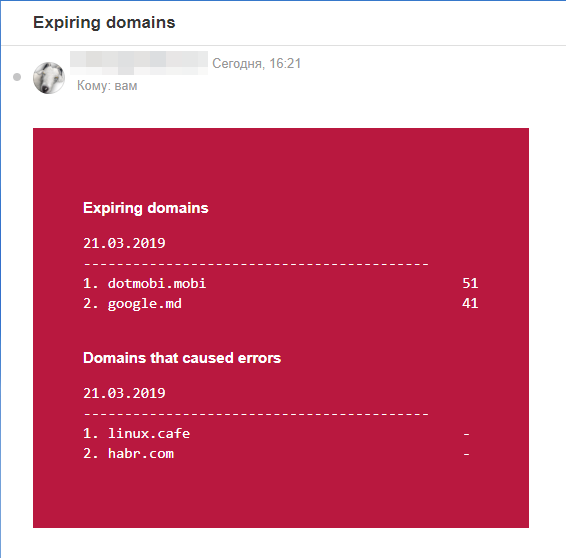
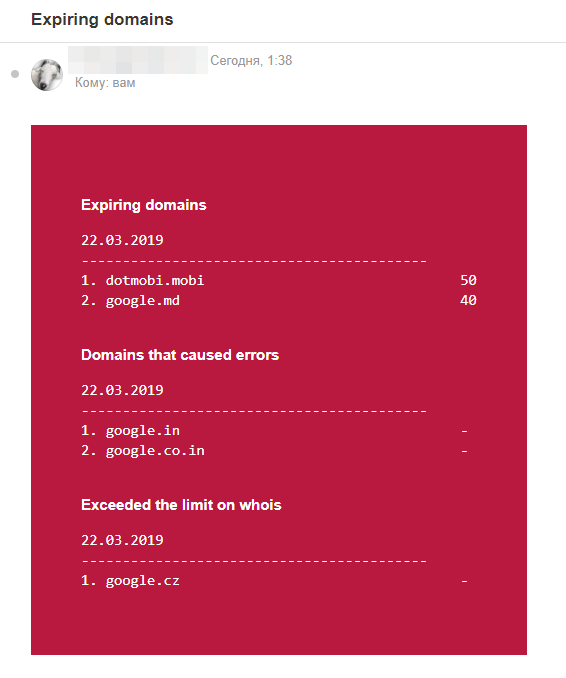
Extended analysis of external whois-data and fixed some bugs

diff --git a/ddec.py b/ddec.py
@@ -1,4 +1,5 @@
 #!/usr/bin/python3
+# !/usr/bin/env python3
 # -*- coding: utf-8 -*-
 
 # Program: DNS Domain Expiration Checker from ak545
@@ -9,8 +10,8 @@
 # Author of this fork: Andrey Klimov < ak545 at mail dot ru >
 # https://github.com/ak545
 #
-# Current Version: 0.1
-# Date: 21-03-2019
+# Current Version: 0.2
+# Date: 22-03-2019
 #
 # License:
 #  This program is free software; you can redistribute it and/or modify
@@ -60,7 +61,7 @@ except ImportError:
 init(autoreset=True)
 
 # Global constants
-_VERSION = "0.1"
+_VERSION = "0.2"
 FR = Fore.RESET
 FLW = Fore.LIGHTWHITE_EX
 FLG = Fore.LIGHTGREEN_EX
@@ -76,9 +77,9 @@ SEP = os.sep
 # SMTP options
 SMTP_SERVER = "localhost"
 # SMTP_SERVER = "smtp.gmail.com"
+SMTP_PORT = 25  # Default
 # SMTP_PORT = 587  # For starttls
 # SMTP_PORT = 465  # For SSL
-SMTP_PORT = 25  # Default
 SMTP_SENDER = "root"
 SMTP_PASSWORD = "P@ssw0rd"
 
@@ -88,7 +89,6 @@ REQUEST_HEADERS = {
 }
 
 # Telegram bot options
-
 # Proxy for telegram
 TELEGRAM_PROXIES = {}
 
@@ -103,21 +103,36 @@ CHAT_ID = '<INSERT YOUR CHANNEL ID>'
 TELEGRAM_URL = "https://api.telegram.org/bot" + MY_TOKEN + "/"
 
 # Options for an external utility whois
+# Keywords for whois-data
 EXPIRE_STRINGS = [
     "Registry Expiry Date:",
     "Expiration:",
-    "Domain Expiration Date",
+    "Domain Expiration Date:",
     "Registrar Registration Expiration Date:",
     "expire:",
     "paid-till:",
     "option expiration date:",
     "[Expires on]",
-    "Expiry date"
+    "Expiry date:",
+    "Expiry Date:",
+    "Expiration date:",
+    "Expiration Date:",
+    "Renewal date:",
+    "paid-till:",
+    "Domain expires:",
+    "renewal date:",
+    "expires:",
+    "Expires:",
+    "Expires On:"
 ]
 REGISTRAR_STRINGS = [
     "[Registrant]",
     "Registrar:",
-    "registrar:"
+    "registrar:",
+    "Registrant:",
+    # "Status:",
+    "Sponsoring Registrar:",
+    "REGISTRAR:"
 ]
 WHOIS_SERVER_STRINGS = [
     "Registrar WHOIS Server:",
@@ -127,14 +142,18 @@ NOT_FOUND_STRINGS = [
     "NOT FOUND",
     "No entries found for the selected source(s)."
 ]
+
+# Command for external whois
 WHOIS_COMMAND = "whois"
+
+# Timeout for external whois
 WHOIS_COMMAND_TIMEOUT = 10
 
 # The list of expired domains
 EXPIRES_DOMAIN = {}
 
 # The list of error domains
-ERRORS_DOMAIN = []
+ERRORS_DOMAIN = [] # Common errors
 ERRORS2_DOMAIN = []  # limit connection
 
 # Command line parameters
@@ -238,6 +257,8 @@ def make_whois_query(domain):
     :return: date, string, string, boolean (expiration_date, registrar, whois_server, error)
     """
     global WHOIS_COMMAND_TIMEOUT
+    global ERRORS_DOMAIN
+
     try:
         p = subprocess.Popen([WHOIS_COMMAND, domain],
                              stdout=subprocess.PIPE, stderr=subprocess.STDOUT)
@@ -248,9 +269,9 @@ def make_whois_query(domain):
     try:
         whois_data = p.communicate(timeout=WHOIS_COMMAND_TIMEOUT)[0]
     except Exception as e:
-        print(f"{FLR}Unable to read from the Popen pipe.\nDomain: {domain}.\nException: {e}")
-        # sys.exit(1)
-        return None, None, None, True
+        if domain not in ERRORS_DOMAIN:
+            ERRORS_DOMAIN.append(str(domain).lower())
+        return None, None, None, 1
 
     # TODO: Work around whois issue #55 which returns a non-zero
     # exit code for valid domains.
@@ -259,6 +280,7 @@ def make_whois_query(domain):
     #    sys.exit(-1)
 
     whois_data = str(whois_data, 'utf-8', 'ignore')
+
     return parse_whois_data(domain, whois_data)
 
 
@@ -269,6 +291,8 @@ def parse_whois_data(domain, whois_data):
     :param whois_data: string
     :return: date, string, string, boolean (expiration_date, registrar, whois_server, error)
     """
+    global ERRORS2_DOMAIN
+
     expiration_date = None
     registrar = None
     whois_server = None
@@ -279,8 +303,10 @@ def parse_whois_data(domain, whois_data):
             continue
 
         if "Your connection limit exceeded. Please slow down and try again later." in line:
+            # Interval is small
             error = 2
-            # print(f"{FLR}Domain: {domain}\nError: Your connection limit exceeded. Please slow down and try again later.")
+            if domain not in ERRORS2_DOMAIN:
+                ERRORS2_DOMAIN.append(str(domain).lower())
             return None, None, None, error
 
         if any(not_found_string in line for not_found_string in
@@ -323,6 +349,7 @@ def calculate_expiration_days(expiration_date):
     except:
         print(f"{FLR}Unable to calculate the expiration days")
         sys.exit(-1)
+
     return domain_expire.days
 
 
@@ -343,7 +370,7 @@ def send_expires_dict_telegram():
 
     message = ""
     if len(EXPIRES_DOMAIN) > 0:
-        # Add expires domains
+        # add expiring domains
         message += "\n<b>Expiring domains</b><pre>" + today + "\n"
         message += hl + "\n"
         for domain, day_left in EXPIRES_DOMAIN.items():
@@ -353,7 +380,7 @@ def send_expires_dict_telegram():
         message += "</pre>"
 
     if len(ERRORS_DOMAIN) > 0:
-        # Add error domains
+        # add error domains
         message += "\n<b>Domains that caused errors</b><pre>" + today + "\n"
         message += hl + "\n"
         for domain in ERRORS_DOMAIN:
@@ -363,7 +390,7 @@ def send_expires_dict_telegram():
         message += "</pre>"
 
     if len(ERRORS2_DOMAIN) > 0:
-        # Add error2 domains
+        # add error2 domains
         message += "\n<b>Exceeded the limit on whois</b><pre>" + today + "\n"
         message += hl + "\n"
         for domain in ERRORS2_DOMAIN:
@@ -446,7 +473,7 @@ def send_expires_dict_email():
     # For part plain
     domain_list_txt = ""
     if len(EXPIRES_DOMAIN) > 0:
-        # Add expires domains
+        # add expiring domains
         domain_list_txt += "\nExpiring domains\n"
         domain_list_txt += today + "\n"
         domain_list_txt += hl + "\n"
@@ -458,7 +485,7 @@ def send_expires_dict_email():
             domain_list_txt += str_domain_item
 
     if len(ERRORS_DOMAIN) > 0:
-        # Add error domains
+        # add error domains
         domain_list_txt += "\nDomains that caused errors\n"
         domain_list_txt += today + "\n"
         domain_list_txt += hl + "\n"
@@ -468,7 +495,7 @@ def send_expires_dict_email():
             domain_list_txt += str_domain_item
 
     if len(ERRORS2_DOMAIN) > 0:
-        # Add error2 domains
+        # add error2 domains
         domain_list_txt += "\nExceeded the limit on whois\n"
         domain_list_txt += today + "\n"
         domain_list_txt += hl + "\n"
@@ -482,7 +509,7 @@ def send_expires_dict_email():
     # For part html
     domain_list = ""
     if len(EXPIRES_DOMAIN) > 0:
-        # Add expires domains
+        # add expiring domains
         domain_list += "<br><b>Expiring domains</b><br><pre>"
         domain_list += today + "\n"
         domain_list += hl + "\n"
@@ -495,7 +522,7 @@ def send_expires_dict_email():
         domain_list += "</pre>"
 
     if len(ERRORS_DOMAIN) > 0:
-        # Add error domains
+        # add error domains
         domain_list += "<br><b>Domains that caused errors</b><br><pre>"
         domain_list += today + "\n"
         domain_list += hl + "\n"
@@ -506,7 +533,7 @@ def send_expires_dict_email():
         domain_list += "</pre>"
 
     if len(ERRORS2_DOMAIN) > 0:
-        # Add error2 domains
+        # add error2 domains
         domain_list += "<br><b>Exceeded the limit on whois</b><br><pre>"
         domain_list += today + "\n"
         domain_list += hl + "\n"
@@ -526,7 +553,6 @@ def send_expires_dict_email():
 
     message = msg.as_string()
 
-    # Try to log in to server and send email
     send_email(message)
 
 
@@ -844,7 +870,8 @@ def print_domain(domain, whois_server, registrar, expiration_date, days_remainin
     dlerr2 = "{:<17}".format("Is it Free?")
 
     # If error == 3
-    # Your connection limit exceeded. Please slow down and try again later.
+    # Your connection limit exceeded. 
+    # Please slow down and try again later.
     dlerr3 = "{:<17}".format("Interval is small")
 
     if days_remaining == -1 or error:
@@ -922,7 +949,7 @@ def check_domain(domain_name, expiration_days, interval_time=None, current_domai
     :param expiration_days: integer
     :param interval_time: integer
     :param current_domain: integer
-    :return: 0 - Error, 1 - Successfully
+    :return: False - Error, True - Successfully
     """
     global NAMESPACE
     global EXPIRES_DOMAIN
@@ -957,10 +984,12 @@ def check_domain(domain_name, expiration_days, interval_time=None, current_domai
                 expiration_date_e, registrar_e, whois_server_e, error = make_whois_query(domain_name)
                 if error:
                     if error == 1:
-                        ERRORS_DOMAIN.append(str(domain_name).lower())
+                        if domain_name not in ERRORS_DOMAIN:
+                            ERRORS_DOMAIN.append(str(domain_name).lower())
                     elif error == 2:
                         # Exceeded the limit on whois
-                        ERRORS2_DOMAIN.append(str(domain_name).lower())
+                        if domain_name not in ERRORS2_DOMAIN:
+                            ERRORS2_DOMAIN.append(str(domain_name).lower())
 
                 if not expiration_date:
                     expiration_date = expiration_date_e
@@ -969,7 +998,8 @@ def check_domain(domain_name, expiration_days, interval_time=None, current_domai
                 if not whois_server:
                     whois_server = whois_server_e
             else:
-                ERRORS_DOMAIN.append(str(domain_name).lower())
+                if domain_name not in ERRORS_DOMAIN:
+                    ERRORS_DOMAIN.append(str(domain_name).lower())
                 if NAMESPACE.print_to_console:
                     print_domain(domain_name, None, None, None, -1, -1, current_domain, error)  # Error
                 if current_domain < G_DOMAINS_TOTAL:
@@ -977,9 +1007,9 @@ def check_domain(domain_name, expiration_days, interval_time=None, current_domai
                         if NAMESPACE.print_to_console:
                             print(f"\tWait {interval_time} sec...\r", end="")
                         time.sleep(interval_time)
-                return 0
+                return False
 
-    if not whois_server and not registrar and not expiration_date:
+    if (not whois_server) and (not registrar) and (not expiration_date):
         if NAMESPACE.print_to_console:
             print_domain(domain_name, whois_server, registrar, expiration_date, -2, -1, current_domain, error)  # Free ?
         if current_domain < G_DOMAINS_TOTAL:
@@ -987,7 +1017,7 @@ def check_domain(domain_name, expiration_days, interval_time=None, current_domai
                 if NAMESPACE.print_to_console:
                     print(f"\tWait {interval_time} sec...\r", end="")
                 time.sleep(interval_time)
-        return 0
+        return False
 
     if not expiration_date:
         if NAMESPACE.print_to_console:
@@ -997,7 +1027,7 @@ def check_domain(domain_name, expiration_days, interval_time=None, current_domai
                 if NAMESPACE.print_to_console:
                     print(f"\tWait {interval_time} sec...\r", end="")
                 time.sleep(interval_time)
-        return 0
+        return False
 
     if 'datetime.datetime' in str(type(expiration_date)):
         expiration_date_min = expiration_date
@@ -1013,7 +1043,7 @@ def check_domain(domain_name, expiration_days, interval_time=None, current_domai
     if days_remaining < expiration_days:
         EXPIRES_DOMAIN[str(domain_name).lower()] = days_remaining
 
-    return 1
+    return True
 
 
 def prepaire_domains_list(file):
@@ -1122,17 +1152,6 @@ def main():
     parser = process_cli()
     NAMESPACE = parser.parse_args(sys.argv[1:])
 
-    # prepaire_domains_list("e:\\_@ak545-projects\\_@Python\\domains0.txt")
-    # for item in G_DOMAINS_LIST:
-    #     print(item)
-    # sys.exit(-1)
-
-    # NAMESPACE.use_telegram = True
-    # NAMESPACE.domain = "google.ru"
-    # NAMESPACE.print_to_console = True
-    # NAMESPACE.file = "e:\\_@ak545-projects\\_@Python\\domains0.txt"
-    # NAMESPACE.use_only_external_whois = True
-
     if not NAMESPACE.no_banner:
         # Print banner
         if platform.platform().startswith('Windows'):
@@ -1163,6 +1182,9 @@ def main():
         )
         sys.exit(-1)
 
+    if NAMESPACE.long_format and (not NAMESPACE.print_to_console):
+        NAMESPACE.print_to_console = True
+
     if (not NAMESPACE.print_to_console and (NAMESPACE.file or NAMESPACE.domain)) and (
             (not NAMESPACE.use_telegram) and (not NAMESPACE.email_to)):
         print(
@@ -1171,9 +1193,6 @@ def main():
             f"Use --print-to-console or --use-email or/and --use-telegram"
         )
         sys.exit(-1)
-
-    if NAMESPACE.long_format and (not NAMESPACE.print_to_console):
-        NAMESPACE.print_to_console = True
 
     if NAMESPACE.email_ssl and (not NAMESPACE.email_to):
         print(f"{FLR}You must specify the email address of the recipient. Use the --email_to option")
@@ -1252,7 +1271,7 @@ def main():
                     domain_name = domain
 
                     # Domain Check
-                    if check_domain(domain_name, expiration_days, interval_time, current_domain) == 0:
+                    if not check_domain(domain_name, expiration_days, interval_time, current_domain):
                         # If error - skip
                         continue
 
